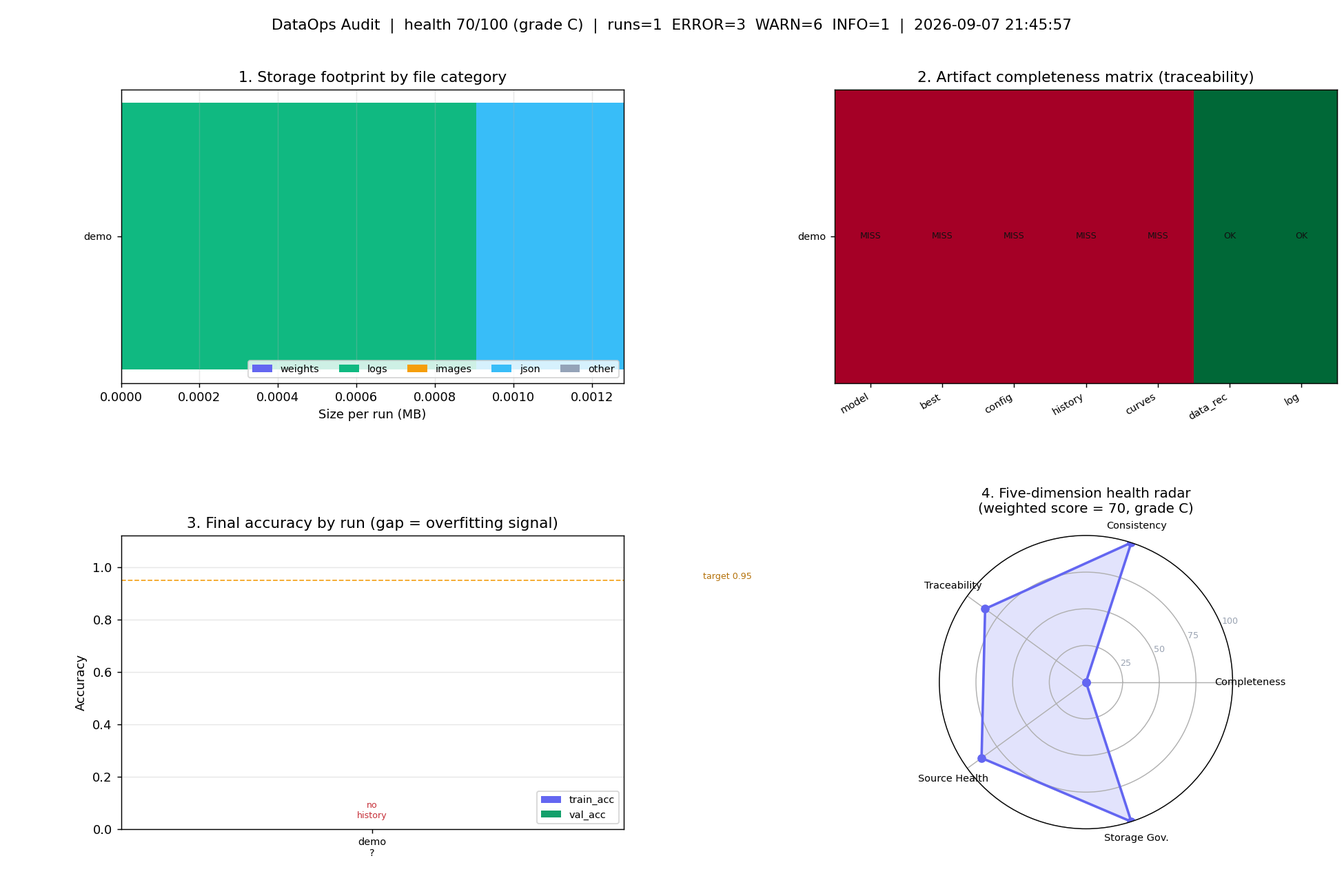
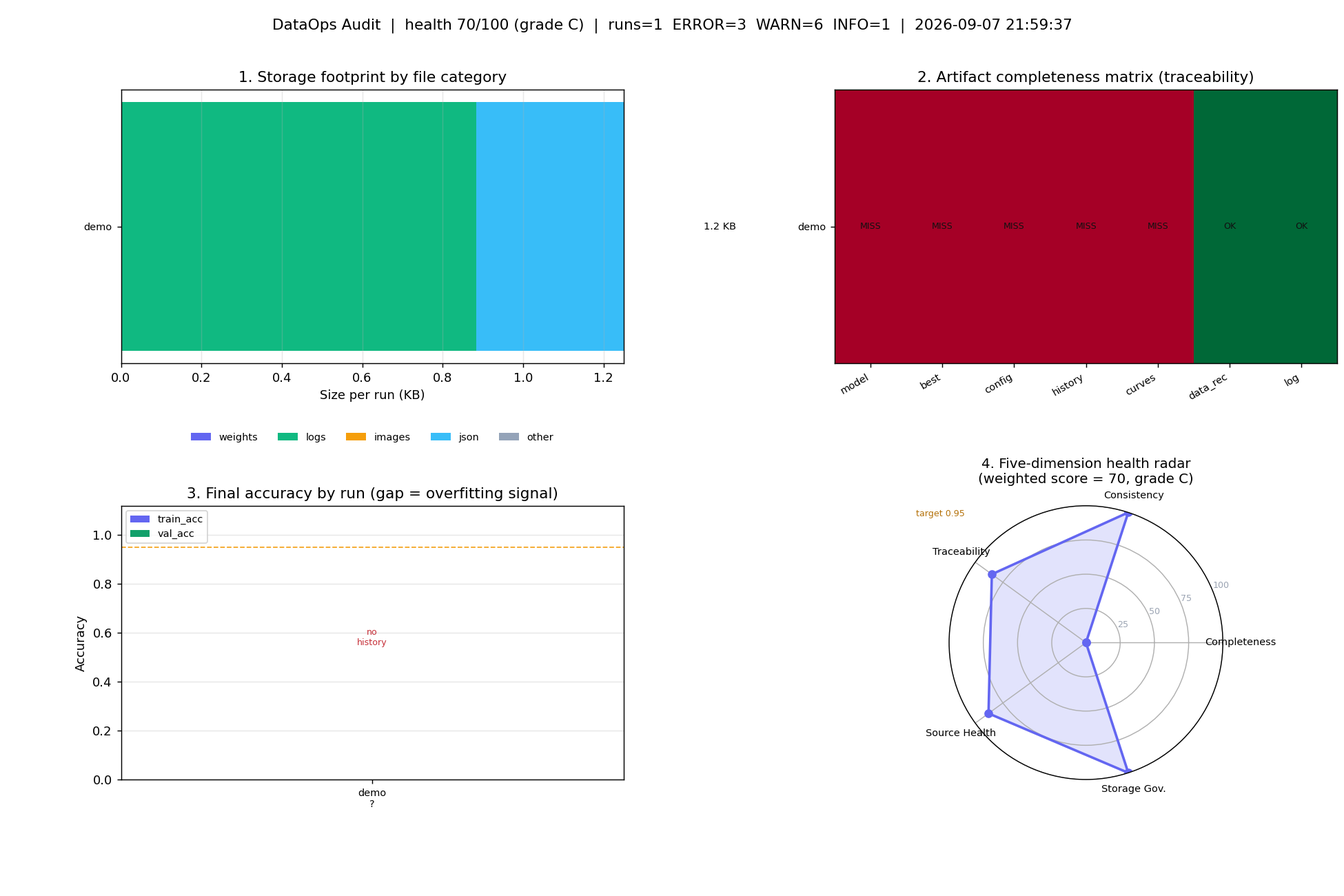
巡检报告增强 + 看板布局微调 + 清理残缺 run + 同步巡检成果
- data_ops.py：存储占用表里为 data 行补注「实际统计自 ~/.cache/paddle/…，原因见告警 S10」，
  避免台账目录（./data）与磁盘真实命中目录不一致时读者被误导；另修掉自提图区块缺少的空行
- visualize.py：PNG 看板布局微调（legend 移到 upper left、no-history 标注改居中高度、
  subplots_adjust 增大 bottom 留白），已用新巡检验证生效于 dashboard.png
- 删除 logs/speed_mlp/：那次训练只留下日志与数据留档、无任何模型产物，属中断残留，
  保留会长期触发 C1 告警干扰基线判断
- outputs/ops/：同步 21:56 / 21:58 / 21:59 三次巡检生成的 json / md / dashboard.png /
  dashboard.html 与留痕日志（报告增强与布局微调后的成果）

diff --git a/outputs/ops/dashboard.html b/outputs/ops/dashboard.html
@@ -1,3 +1,3 @@
 <!doctype html><html lang="zh"><head><meta charset="utf-8"><meta name="viewport" content="width=device-width,initial-scale=1"><title>手写识别项目 · 数据运维看板</title><style>
 *{box-sizing:border-box}body{margin:0;padding:24px;background:#f5f7fa;font-family:-apple-system,"PingFang SC","Microsoft YaHei",Helvetica,Arial,sans-serif;color:#1a1d24}h1{font-size:20px;margin:0 0 4px}h2{font-size:15px;margin:24px 0 10px;color:#2c3140;border-left:4px solid #6366f1;padding-left:9px}.sub{color:#68707f;font-size:12px;margin-bottom:18px}.wrap{max-width:1120px;margin:0 auto}.card{background:#fff;border:1px solid #e6eaf0;border-radius:12px;padding:16px 18px;margin-bottom:14px;box-shadow:0 1px 2px rgba(16,24,40,.04)}.grid{display:grid;grid-template-columns:repeat(auto-fit,minmax(330px,1fr));gap:14px}.kpis{display:grid;grid-template-columns:repeat(auto-fit,minmax(112px,1fr));gap:10px;margin-top:10px}.kpi{background:#f8fafc;border:1px solid #e6eaf0;border-radius:10px;padding:9px 11px}.kpi b{display:block;font-size:20px;margin-top:2px}.kpi span{font-size:11px;color:#68707f}.chip{display:inline-block;padding:2px 9px;border-radius:999px;font-size:11px;font-weight:600;color:#fff}table{width:100%;border-collapse:collapse;font-size:12px}th,td{padding:7px 8px;border-bottom:1px solid #eef1f5;text-align:left;vertical-align:middle}th{background:#f8fafc;color:#4b5568;font-weight:600;white-space:nowrap}td.num{text-align:right;font-variant-numeric:tabular-nums}code{background:#f2f4f8;padding:1px 5px;border-radius:4px;font-size:11px;word-break:break-all}.muted{color:#9aa3b2}.ok{color:#12805c}.bad{color:#c62f38}.warned{color:#b47109}.cell-ok{background:#e7f6ef}.cell-bad{background:#fdeceb}.dimrow{display:flex;align-items:center;gap:10px;margin:7px 0;font-size:12px}.dimrow span{width:80px;color:#4b5568}.dimrow b{width:34px;text-align:right}.track{flex:1;height:9px;background:#eef1f5;border-radius:6px;overflow:hidden}.fill{height:100%;border-radius:6px}footer{color:#8d95a3;font-size:11px;text-align:center;margin:18px 0}
-</style></head><body><div class="wrap"><h1>数据运维巡检看板 · DataOps Audit</h1><div class="sub">生成于 2026-09-07 21:45:57 ｜ 巡检范围 <code>/Volumes/LCA_SSD/课程/大数据综合实训/handwriting_recognition/logs</code> · <code>/Volumes/LCA_SSD/课程/大数据综合实训/handwriting_recognition/data</code> · <code>/Volumes/LCA_SSD/课程/大数据综合实训/handwriting_recognition/outputs</code>｜ run 范围：(全部 run) ｜ 保留期 14 天</div><div class="grid"><div class="card" style="text-align:center"><h2 style="margin-top:0">健康度总分</h2><svg viewBox="0 0 200 122" width="200" height="122"><path d="M 30 100 A 70 70 0 0 1 170 100" fill="none" stroke="#e9edf3" stroke-width="15" stroke-linecap="round"/><path d="M 30 100 A 70 70 0 0 1 170 100" fill="none" stroke="#f5a623" stroke-width="15" stroke-linecap="round" stroke-dasharray="154.4 219.9"/><text x="100" y="93" text-anchor="middle" font-size="34" font-weight="700" fill="#1a1d24">70</text><text x="100" y="114" text-anchor="middle" font-size="11" fill="#68707f">HEALTH SCORE / 100</text></svg><div style="margin:8px 0 2px">及格：有明显缺项，交付前需整改</div><div><span class="chip" style="background:#e5484d">ERROR 3</span> <span class="chip" style="background:#f5a623">WARN 6</span> <span class="chip" style="background:#3b82f6">INFO 1</span></div><div class="kpis"><div class="kpi"><span>健康度等级</span><b style="color:#f5a623">C</b></div><div class="kpi"><span>巡检 run 数</span><b>1</b></div><div class="kpi"><span>run 产物占用</span><b>1.2 KB</b></div><div class="kpi"><span>全项目产物</span><b>11.2 MB</b></div><div class="kpi"><span>数据集占用</span><b>11.1 MB</b></div><div class="kpi"><span>数据文件校验</span><b>4/4</b></div><div class="kpi"><span>最优 run</span><b style="font-size:13px">-</b></div></div></div><div class="card"><h2 style="margin-top:0">五维健康度（扣分制 ERROR-35 / WARN-12 / INFO-3）</h2><div class="dimrow"><span>资产完整性</span><div class="track"><div class="fill" style="width:0%;background:#e5484d"></div></div><b>0</b><span class="muted" style="width:34px">25%</span></div><div class="dimrow"><span>一致性校验</span><div class="track"><div class="fill" style="width:100%;background:#12a06b"></div></div><b>100</b><span class="muted" style="width:34px">25%</span></div><div class="dimrow"><span>可追溯性</span><div class="track"><div class="fill" style="width:85%;background:#3b82f6"></div></div><b>85</b><span class="muted" style="width:34px">20%</span></div><div class="dimrow"><span>数据源健康</span><div class="track"><div class="fill" style="width:88%;background:#3b82f6"></div></div><b>88</b><span class="muted" style="width:34px">15%</span></div><div class="dimrow"><span>存储治理</span><div class="track"><div class="fill" style="width:100%;background:#12a06b"></div></div><b>100</b><span class="muted" style="width:34px">15%</span></div><div class="muted" style="margin-top:10px;font-size:11px">磁盘/数据/日志均为只读扫描，本看板不会修改或删除任何产物。</div><h2>存储占用构成（按 run 堆叠）</h2><svg viewBox="0 0 520 70" width="100%" height="70"><text x="124" y="23" text-anchor="end" font-size="11" fill="#333">demo</text><rect x="132.0" y="6" width="220.3" height="22" rx="3" fill="#10b981"><title>logs: 904 B</title></rect><rect x="352.4" y="6" width="91.7" height="22" rx="3" fill="#38bdf8"><title>json: 376 B</title></rect><text x="450.0" y="23" font-size="11" fill="#666">1.2 KB</text><rect x="132" y="50" width="11" height="11" rx="2" fill="#6366f1"/><text x="147" y="59" font-size="10" fill="#666">weights</text><rect x="228" y="50" width="11" height="11" rx="2" fill="#10b981"/><text x="243" y="59" font-size="10" fill="#666">logs</text><rect x="324" y="50" width="11" height="11" rx="2" fill="#f59e0b"/><text x="339" y="59" font-size="10" fill="#666">images</text><rect x="420" y="50" width="11" height="11" rx="2" fill="#38bdf8"/><text x="435" y="59" font-size="10" fill="#666">json</text><rect x="516" y="50" width="11" height="11" rx="2" fill="#94a3b8"/><text x="531" y="59" font-size="10" fill="#666">other</text></svg><h2>分区域存储账</h2><div class="dimrow"><span style="width:170px">原始数据集 data/</span><div class="track"><div class="fill" style="width:100.0%;background:#6366f1"></div></div><b style="width:64px">11.1 MB</b></div><div class="dimrow"><span style="width:170px">巡检报告 outputs/ops/</span><div class="track"><div class="fill" style="width:1.6%;background:#93a0f5"></div></div><b style="width:64px">179.7 KB</b></div><div class="dimrow"><span style="width:170px">训练产物 logs/</span><div class="track"><div class="fill" style="width:0.0%;background:#93a0f5"></div></div><b style="width:64px">1.2 KB</b></div><div class="dimrow"><span style="width:170px">自提原图 inputs/</span><div class="track"><div class="fill" style="width:0.0%;background:#93a0f5"></div></div><b style="width:64px">286 B</b></div><div class="dimrow"><span style="width:170px">示例输出 outputs/examples/</span><div class="track"><div class="fill" style="width:0.0%;background:#93a0f5"></div></div><b style="width:64px">0 B</b></div><div class="dimrow"><span style="width:170px">自提图结果 outputs/custom/</span><div class="track"><div class="fill" style="width:0.0%;background:#93a0f5"></div></div><b style="width:64px">0 B</b></div></div><div class="card"><h2 style="margin-top:0">训练指标对比（运维视角）</h2><p class="muted">没有可用的 history.json，指标图空。</p><div class="muted" style="font-size:11px;margin-top:6px">两柱高度差即泛化间隙；差 &gt; 0.05 记过拟合告警。</div><h2>数据源体检</h2><div class="muted" style="font-size:11px;margin-bottom:6px">实际命中目录：<code>/Users/leechiann/.cache/paddle/dataset/mnist</code></div><table><tr><th>文件</th><th>拆分</th><th>体积</th><th>样本数</th><th>解压字节</th><th>md5(前16)</th><th>状态</th></tr><tr><td><code>train-images-idx3-ubyte.gz</code></td><td>train</td><td class="num">9.5 MB</td><td class="num">60000</td><td class="num">47040000</td><td><code>f68b3c2dcbeaaa9f</code></td><td><span class="ok">正常</span></td></tr><tr><td><code>train-labels-idx1-ubyte.gz</code></td><td>train</td><td class="num">28.2 KB</td><td class="num">60000</td><td class="num">60000</td><td><code>d53e105ee54ea407</code></td><td><span class="ok">正常</span></td></tr><tr><td><code>t10k-images-idx3-ubyte.gz</code></td><td>test</td><td class="num">1.6 MB</td><td class="num">10000</td><td class="num">7840000</td><td><code>9fb629c4189551a2</code></td><td><span class="ok">正常</span></td></tr><tr><td><code>t10k-labels-idx1-ubyte.gz</code></td><td>test</td><td class="num">4.4 KB</td><td class="num">10000</td><td class="num">10000</td><td><code>ec29112dd5afa061</code></td><td><span class="ok">正常</span></td></tr></table><div class="muted" style="font-size:11px;margin-top:6px">指纹基线：<code>/Volumes/LCA_SSD/课程/大数据综合实训/handwriting_recognition/outputs/ops/data_fingerprint.json</code></div></div></div><div class="card"><h2 style="margin-top:0">资产台账（run × 产物）</h2><table><tr><th>run</th><th>日志</th><th>最终模型权重</th><th>最佳模型权重</th><th>参数快照</th><th>训练过程数据</th><th>训练曲线图</th><th>数据集留档</th><th>体积</th><th>最后更新</th></tr><tr><td><code>demo</code></td><td class="cell-ok ok">✓ 有</td><td class="cell-bad bad">✗ 缺</td><td class="cell-bad bad">✗ 缺</td><td class="cell-bad bad">✗ 缺</td><td class="cell-bad bad">✗ 缺</td><td class="cell-bad bad">✗ 缺</td><td class="cell-ok ok">✓ 有</td><td class="num">1.2 KB</td><td class="muted">2026-09-07 21:42:14（0.0天前）</td></tr></table></div><div class="card"><h2 style="margin-top:0">训练指标明细</h2><table><tr><th>run</th><th>结构</th><th>轮数</th><th>train_acc</th><th>val_acc</th><th>泛化间隙</th><th>val_acc 走势</th><th>运维判定</th></tr><tr><td><code>demo</code></td><td colspan="6" class="bad">无 history.json，训练指标不可追溯</td><td class="bad">不可提交</td></tr></table><div class="sub" style="margin-top:10px">推理成果：<span class="bad">尚无 inference_results.json</span></div></div><div class="card"><h2 style="margin-top:0">用户自提输入区 · 新数据接入体检</h2><div class="sub" style="margin-bottom:8px">输入目录 <code>/Volumes/LCA_SSD/课程/大数据综合实训/handwriting_recognition/inputs</code>（存在）｜现有 PNG 3 张｜因格式被排除 0 个｜成果 <code>custom_results.json</code>（尚未生成）</div><table><tr><th>输入图</th><th class="num">体积</th><th>最后修改</th><th>送模结果</th></tr><tr><td><code>3.png</code></td><td class="num">100 B</td><td class="muted">2026-09-07 21:43:11</td><td><span class="muted">未跑推理</span></td></tr><tr><td><code>7.png</code></td><td class="num">86 B</td><td class="muted">2026-09-07 21:43:11</td><td><span class="muted">未跑推理</span></td></tr><tr><td><code>9.png</code></td><td class="num">100 B</td><td class="muted">2026-09-07 21:43:11</td><td><span class="muted">未跑推理</span></td></tr></table></div><div class="card"><h2 style="margin-top:0">告警清单（10 项）</h2><table><tr><th>级别</th><th>编号</th><th>维度</th><th>对象</th><th>问题</th><th>建议动作</th></tr><tr><td><span class="chip" style="background:#e5484d">ERROR</span></td><td><code>C1</code></td><td>资产完整性</td><td><code>demo/model.pdparams</code></td><td>缺少最终模型权重（model.pdparams）</td><td class="muted">重跑该 run 的训练；若是中断所致请勿复用半成品 run 目录</td></tr><tr><td><span class="chip" style="background:#e5484d">ERROR</span></td><td><code>C1</code></td><td>资产完整性</td><td><code>demo/best_model.pdparams</code></td><td>缺少最佳模型权重（best_model.pdparams）</td><td class="muted">重跑该 run 的训练；若是中断所致请勿复用半成品 run 目录</td></tr><tr><td><span class="chip" style="background:#e5484d">ERROR</span></td><td><code>C1</code></td><td>资产完整性</td><td><code>demo/config.json</code></td><td>缺少参数快照（config.json）</td><td class="muted">重跑该 run 的训练；若是中断所致请勿复用半成品 run 目录</td></tr><tr><td><span class="chip" style="background:#f5a623">WARN</span></td><td><code>C1</code></td><td>资产完整性</td><td><code>demo/history.json</code></td><td>缺少训练过程数据（history.json）</td><td class="muted">重跑该 run 的训练；若是中断所致请勿复用半成品 run 目录</td></tr><tr><td><span class="chip" style="background:#f5a623">WARN</span></td><td><code>C1</code></td><td>资产完整性</td><td><code>demo/curves.png</code></td><td>缺少训练曲线图（curves.png）</td><td class="muted">重跑该 run 的训练；若是中断所致请勿复用半成品 run 目录</td></tr><tr><td><span class="chip" style="background:#f5a623">WARN</span></td><td><code>C3</code></td><td>资产完整性</td><td><code>/Volumes/LCA_SSD/课程/大数据综合实训/handwriting_recognition/outputs/examples/inference_results.json</code></td><td>尚无推理成果 inference_results.json</td><td class="muted">运行：python main.py --mode inference --run_name &lt;run名&gt;</td></tr><tr><td><span class="chip" style="background:#f5a623">WARN</span></td><td><code>U5</code></td><td>资产完整性</td><td><code>/Volumes/LCA_SSD/课程/大数据综合实训/handwriting_recognition/outputs/custom/custom_results.json</code></td><td>已有 3 张输入图但没有 custom_results.json</td><td class="muted">运行：python main.py --mode custom --run_name &lt;run名&gt;</td></tr><tr><td><span class="chip" style="background:#f5a623">WARN</span></td><td><code>S10</code></td><td>数据源健康</td><td><code>/Users/leechiann/.cache/paddle/dataset/mnist</code></td><td>实际数据目录为 /Users/leechiann/.cache/paddle/dataset/mnist，与 config.data_dir=./data 不一致（说明当时触发了退回 Paddle 默认缓存的降级分支）</td><td class="muted">在报告中注明降级；如需固定路径请补齐 config.data_dir 下的文件</td></tr><tr><td><span class="chip" style="background:#f5a623">WARN</span></td><td><code>N13</code></td><td>可追溯性</td><td><code>demo/dataset_record.json</code></td><td>留档声明数据目录 ./data，实际命中 /Users/leechiann/.cache/paddle/dataset/mnist</td><td class="muted">留档与事实不符，追溯时以实际为准</td></tr><tr><td><span class="chip" style="background:#3b82f6">INFO</span></td><td><code>T3</code></td><td>可追溯性</td><td><code>demo</code></td><td>无 best_model.pdparams，inference 模式将回退用末轮权重</td><td class="muted">推理结果可能与训练报告里的 val_acc 不一致</td></tr></table></div><div class="card"><h2 style="margin-top:0">整改优先级（先看这 8 条）</h2><ol><li><b>ERROR C1</b>：缺少最终模型权重（model.pdparams）<br><span class="muted">→ </span><code>重跑该 run 的训练；若是中断所致请勿复用半成品 run 目录</code></li><li><b>ERROR C1</b>：缺少最佳模型权重（best_model.pdparams）<br><span class="muted">→ </span><code>重跑该 run 的训练；若是中断所致请勿复用半成品 run 目录</code></li><li><b>ERROR C1</b>：缺少参数快照（config.json）<br><span class="muted">→ </span><code>重跑该 run 的训练；若是中断所致请勿复用半成品 run 目录</code></li><li><b>WARN C1</b>：缺少训练过程数据（history.json）<br><span class="muted">→ </span><code>重跑该 run 的训练；若是中断所致请勿复用半成品 run 目录</code></li><li><b>WARN C1</b>：缺少训练曲线图（curves.png）<br><span class="muted">→ </span><code>重跑该 run 的训练；若是中断所致请勿复用半成品 run 目录</code></li><li><b>WARN C3</b>：尚无推理成果 inference_results.json<br><span class="muted">→ </span><code>运行：python main.py --mode inference --run_name &lt;run名&gt;</code></li><li><b>WARN U5</b>：已有 3 张输入图但没有 custom_results.json<br><span class="muted">→ </span><code>运行：python main.py --mode custom --run_name &lt;run名&gt;</code></li><li><b>WARN S10</b>：实际数据目录为 /Users/leechiann/.cache/paddle/dataset/mnist，与 config.data_dir=./data 不一致（说明当时触发了退回 Paddle 默认缓存的降级分支）<br><span class="muted">→ </span><code>在报告中注明降级；如需固定路径请补齐 config.data_dir 下的文件</code></li></ol></div><footer>由 data_ops.py 自动生成 · 只读巡检 · 配套课程《大数据综合实训 · 深度学习实训》</footer></div></body></html>
+</style></head><body><div class="wrap"><h1>数据运维巡检看板 · DataOps Audit</h1><div class="sub">生成于 2026-09-07 21:59:37 ｜ 巡检范围 <code>/Volumes/LCA_SSD/课程/大数据综合实训/handwriting_recognition/logs</code> · <code>/Volumes/LCA_SSD/课程/大数据综合实训/handwriting_recognition/data</code> · <code>/Volumes/LCA_SSD/课程/大数据综合实训/handwriting_recognition/outputs</code>｜ run 范围：全部 run（logs/ 下所有子目录） ｜ 保留期 14 天</div><div class="grid"><div class="card" style="text-align:center"><h2 style="margin-top:0">健康度总分</h2><svg viewBox="0 0 200 122" width="200" height="122"><path d="M 30 100 A 70 70 0 0 1 170 100" fill="none" stroke="#e9edf3" stroke-width="15" stroke-linecap="round"/><path d="M 30 100 A 70 70 0 0 1 170 100" fill="none" stroke="#f5a623" stroke-width="15" stroke-linecap="round" stroke-dasharray="154.4 219.9"/><text x="100" y="93" text-anchor="middle" font-size="34" font-weight="700" fill="#1a1d24">70</text><text x="100" y="114" text-anchor="middle" font-size="11" fill="#68707f">HEALTH SCORE / 100</text></svg><div style="margin:8px 0 2px">及格：有明显缺项，交付前需整改</div><div><span class="chip" style="background:#e5484d">ERROR 3</span> <span class="chip" style="background:#f5a623">WARN 6</span> <span class="chip" style="background:#3b82f6">INFO 1</span></div><div class="kpis"><div class="kpi"><span>健康度等级</span><b style="color:#f5a623">C</b></div><div class="kpi"><span>巡检 run 数</span><b>1</b></div><div class="kpi"><span>run 产物占用</span><b>1.2 KB</b></div><div class="kpi"><span>全项目产物</span><b>11.2 MB</b></div><div class="kpi"><span>数据集占用</span><b>11.1 MB</b></div><div class="kpi"><span>数据文件校验</span><b>4/4</b></div><div class="kpi"><span>最优 run</span><b style="font-size:13px">-</b></div></div></div><div class="card"><h2 style="margin-top:0">五维健康度（扣分制 ERROR-35 / WARN-12 / INFO-3）</h2><div class="dimrow"><span>资产完整性</span><div class="track"><div class="fill" style="width:0%;background:#e5484d"></div></div><b>0</b><span class="muted" style="width:34px">25%</span></div><div class="dimrow"><span>一致性校验</span><div class="track"><div class="fill" style="width:100%;background:#12a06b"></div></div><b>100</b><span class="muted" style="width:34px">25%</span></div><div class="dimrow"><span>可追溯性</span><div class="track"><div class="fill" style="width:85%;background:#3b82f6"></div></div><b>85</b><span class="muted" style="width:34px">20%</span></div><div class="dimrow"><span>数据源健康</span><div class="track"><div class="fill" style="width:88%;background:#3b82f6"></div></div><b>88</b><span class="muted" style="width:34px">15%</span></div><div class="dimrow"><span>存储治理</span><div class="track"><div class="fill" style="width:100%;background:#12a06b"></div></div><b>100</b><span class="muted" style="width:34px">15%</span></div><div class="muted" style="margin-top:10px;font-size:11px">磁盘/数据/日志均为只读扫描，本看板不会修改或删除任何产物。</div><h2>存储占用构成（按 run 堆叠）</h2><svg viewBox="0 0 520 70" width="100%" height="70"><text x="124" y="23" text-anchor="end" font-size="11" fill="#333">demo</text><rect x="132.0" y="6" width="220.3" height="22" rx="3" fill="#10b981"><title>logs: 904 B</title></rect><rect x="352.4" y="6" width="91.7" height="22" rx="3" fill="#38bdf8"><title>json: 376 B</title></rect><text x="450.0" y="23" font-size="11" fill="#666">1.2 KB</text><rect x="132" y="50" width="11" height="11" rx="2" fill="#6366f1"/><text x="147" y="59" font-size="10" fill="#666">weights</text><rect x="228" y="50" width="11" height="11" rx="2" fill="#10b981"/><text x="243" y="59" font-size="10" fill="#666">logs</text><rect x="324" y="50" width="11" height="11" rx="2" fill="#f59e0b"/><text x="339" y="59" font-size="10" fill="#666">images</text><rect x="420" y="50" width="11" height="11" rx="2" fill="#38bdf8"/><text x="435" y="59" font-size="10" fill="#666">json</text><rect x="516" y="50" width="11" height="11" rx="2" fill="#94a3b8"/><text x="531" y="59" font-size="10" fill="#666">other</text></svg><h2>分区域存储账</h2><div class="dimrow"><span style="width:170px">原始数据集 data/</span><div class="track"><div class="fill" style="width:100.0%;background:#6366f1"></div></div><b style="width:64px">11.1 MB</b></div><div class="dimrow"><span style="width:170px">巡检报告 outputs/ops/</span><div class="track"><div class="fill" style="width:1.6%;background:#93a0f5"></div></div><b style="width:64px">179.7 KB</b></div><div class="dimrow"><span style="width:170px">训练产物 logs/</span><div class="track"><div class="fill" style="width:0.0%;background:#93a0f5"></div></div><b style="width:64px">1.2 KB</b></div><div class="dimrow"><span style="width:170px">自提原图 inputs/</span><div class="track"><div class="fill" style="width:0.0%;background:#93a0f5"></div></div><b style="width:64px">286 B</b></div><div class="dimrow"><span style="width:170px">示例输出 outputs/examples/</span><div class="track"><div class="fill" style="width:0.0%;background:#93a0f5"></div></div><b style="width:64px">0 B</b></div><div class="dimrow"><span style="width:170px">自提图结果 outputs/custom/</span><div class="track"><div class="fill" style="width:0.0%;background:#93a0f5"></div></div><b style="width:64px">0 B</b></div></div><div class="card"><h2 style="margin-top:0">训练指标对比（运维视角）</h2><p class="muted">没有可用的 history.json，指标图空。</p><div class="muted" style="font-size:11px;margin-top:6px">两柱高度差即泛化间隙；差 &gt; 0.05 记过拟合告警。</div><h2>数据源体检</h2><div class="muted" style="font-size:11px;margin-bottom:6px">实际命中目录：<code>/Users/leechiann/.cache/paddle/dataset/mnist</code></div><table><tr><th>文件</th><th>拆分</th><th>体积</th><th>样本数</th><th>解压字节</th><th>md5(前16)</th><th>状态</th></tr><tr><td><code>train-images-idx3-ubyte.gz</code></td><td>train</td><td class="num">9.5 MB</td><td class="num">60000</td><td class="num">47040000</td><td><code>f68b3c2dcbeaaa9f</code></td><td><span class="ok">正常</span></td></tr><tr><td><code>train-labels-idx1-ubyte.gz</code></td><td>train</td><td class="num">28.2 KB</td><td class="num">60000</td><td class="num">60000</td><td><code>d53e105ee54ea407</code></td><td><span class="ok">正常</span></td></tr><tr><td><code>t10k-images-idx3-ubyte.gz</code></td><td>test</td><td class="num">1.6 MB</td><td class="num">10000</td><td class="num">7840000</td><td><code>9fb629c4189551a2</code></td><td><span class="ok">正常</span></td></tr><tr><td><code>t10k-labels-idx1-ubyte.gz</code></td><td>test</td><td class="num">4.4 KB</td><td class="num">10000</td><td class="num">10000</td><td><code>ec29112dd5afa061</code></td><td><span class="ok">正常</span></td></tr></table><div class="muted" style="font-size:11px;margin-top:6px">指纹基线：<code>/Volumes/LCA_SSD/课程/大数据综合实训/handwriting_recognition/outputs/ops/data_fingerprint.json</code></div></div></div><div class="card"><h2 style="margin-top:0">资产台账（run × 产物）</h2><table><tr><th>run</th><th>日志</th><th>最终模型权重</th><th>最佳模型权重</th><th>参数快照</th><th>训练过程数据</th><th>训练曲线图</th><th>数据集留档</th><th>体积</th><th>最后更新</th></tr><tr><td><code>demo</code></td><td class="cell-ok ok">✓ 有</td><td class="cell-bad bad">✗ 缺</td><td class="cell-bad bad">✗ 缺</td><td class="cell-bad bad">✗ 缺</td><td class="cell-bad bad">✗ 缺</td><td class="cell-bad bad">✗ 缺</td><td class="cell-ok ok">✓ 有</td><td class="num">1.2 KB</td><td class="muted">2026-09-07 21:42:14（0.0天前）</td></tr></table></div><div class="card"><h2 style="margin-top:0">训练指标明细</h2><table><tr><th>run</th><th>结构</th><th>轮数</th><th>train_acc</th><th>val_acc</th><th>泛化间隙</th><th>val_acc 走势</th><th>运维判定</th></tr><tr><td><code>demo</code></td><td colspan="6" class="bad">无 history.json，训练指标不可追溯</td><td class="bad">不可提交</td></tr></table><div class="sub" style="margin-top:10px">推理成果：<span class="bad">尚无 inference_results.json</span></div></div><div class="card"><h2 style="margin-top:0">用户自提输入区 · 新数据接入体检</h2><div class="sub" style="margin-bottom:8px">输入目录 <code>/Volumes/LCA_SSD/课程/大数据综合实训/handwriting_recognition/inputs</code>（存在）｜现有 PNG 3 张｜因格式被排除 0 个｜成果 <code>custom_results.json</code>（尚未生成）</div><table><tr><th>输入图</th><th class="num">体积</th><th>最后修改</th><th>送模结果</th></tr><tr><td><code>3.png</code></td><td class="num">100 B</td><td class="muted">2026-09-07 21:43:11</td><td><span class="muted">未跑推理</span></td></tr><tr><td><code>7.png</code></td><td class="num">86 B</td><td class="muted">2026-09-07 21:43:11</td><td><span class="muted">未跑推理</span></td></tr><tr><td><code>9.png</code></td><td class="num">100 B</td><td class="muted">2026-09-07 21:43:11</td><td><span class="muted">未跑推理</span></td></tr></table></div><div class="card"><h2 style="margin-top:0">告警清单（10 项）</h2><table><tr><th>级别</th><th>编号</th><th>维度</th><th>对象</th><th>问题</th><th>建议动作</th></tr><tr><td><span class="chip" style="background:#e5484d">ERROR</span></td><td><code>C1</code></td><td>资产完整性</td><td><code>demo/model.pdparams</code></td><td>缺少最终模型权重（model.pdparams）</td><td class="muted">重跑该 run 的训练；若是中断所致请勿复用半成品 run 目录</td></tr><tr><td><span class="chip" style="background:#e5484d">ERROR</span></td><td><code>C1</code></td><td>资产完整性</td><td><code>demo/best_model.pdparams</code></td><td>缺少最佳模型权重（best_model.pdparams）</td><td class="muted">重跑该 run 的训练；若是中断所致请勿复用半成品 run 目录</td></tr><tr><td><span class="chip" style="background:#e5484d">ERROR</span></td><td><code>C1</code></td><td>资产完整性</td><td><code>demo/config.json</code></td><td>缺少参数快照（config.json）</td><td class="muted">重跑该 run 的训练；若是中断所致请勿复用半成品 run 目录</td></tr><tr><td><span class="chip" style="background:#f5a623">WARN</span></td><td><code>C1</code></td><td>资产完整性</td><td><code>demo/history.json</code></td><td>缺少训练过程数据（history.json）</td><td class="muted">重跑该 run 的训练；若是中断所致请勿复用半成品 run 目录</td></tr><tr><td><span class="chip" style="background:#f5a623">WARN</span></td><td><code>C1</code></td><td>资产完整性</td><td><code>demo/curves.png</code></td><td>缺少训练曲线图（curves.png）</td><td class="muted">重跑该 run 的训练；若是中断所致请勿复用半成品 run 目录</td></tr><tr><td><span class="chip" style="background:#f5a623">WARN</span></td><td><code>C3</code></td><td>资产完整性</td><td><code>/Volumes/LCA_SSD/课程/大数据综合实训/handwriting_recognition/outputs/examples/inference_results.json</code></td><td>尚无推理成果 inference_results.json</td><td class="muted">运行：python main.py --mode inference --run_name &lt;run名&gt;</td></tr><tr><td><span class="chip" style="background:#f5a623">WARN</span></td><td><code>U5</code></td><td>资产完整性</td><td><code>/Volumes/LCA_SSD/课程/大数据综合实训/handwriting_recognition/outputs/custom/custom_results.json</code></td><td>已有 3 张输入图但没有 custom_results.json</td><td class="muted">运行：python main.py --mode custom --run_name &lt;run名&gt;</td></tr><tr><td><span class="chip" style="background:#f5a623">WARN</span></td><td><code>S10</code></td><td>数据源健康</td><td><code>/Users/leechiann/.cache/paddle/dataset/mnist</code></td><td>实际数据目录为 /Users/leechiann/.cache/paddle/dataset/mnist，与 config.data_dir=./data 不一致（说明当时触发了退回 Paddle 默认缓存的降级分支）</td><td class="muted">在报告中注明降级；如需固定路径请补齐 config.data_dir 下的文件</td></tr><tr><td><span class="chip" style="background:#f5a623">WARN</span></td><td><code>N13</code></td><td>可追溯性</td><td><code>demo/dataset_record.json</code></td><td>留档声明数据目录 ./data，实际命中 /Users/leechiann/.cache/paddle/dataset/mnist</td><td class="muted">留档与事实不符，追溯时以实际为准</td></tr><tr><td><span class="chip" style="background:#3b82f6">INFO</span></td><td><code>T3</code></td><td>可追溯性</td><td><code>demo</code></td><td>无 best_model.pdparams，inference 模式将回退用末轮权重</td><td class="muted">推理结果可能与训练报告里的 val_acc 不一致</td></tr></table></div><div class="card"><h2 style="margin-top:0">整改优先级（先看这 8 条）</h2><ol><li><b>ERROR C1</b>：缺少最终模型权重（model.pdparams）<br><span class="muted">→ </span><code>重跑该 run 的训练；若是中断所致请勿复用半成品 run 目录</code></li><li><b>ERROR C1</b>：缺少最佳模型权重（best_model.pdparams）<br><span class="muted">→ </span><code>重跑该 run 的训练；若是中断所致请勿复用半成品 run 目录</code></li><li><b>ERROR C1</b>：缺少参数快照（config.json）<br><span class="muted">→ </span><code>重跑该 run 的训练；若是中断所致请勿复用半成品 run 目录</code></li><li><b>WARN C1</b>：缺少训练过程数据（history.json）<br><span class="muted">→ </span><code>重跑该 run 的训练；若是中断所致请勿复用半成品 run 目录</code></li><li><b>WARN C1</b>：缺少训练曲线图（curves.png）<br><span class="muted">→ </span><code>重跑该 run 的训练；若是中断所致请勿复用半成品 run 目录</code></li><li><b>WARN C3</b>：尚无推理成果 inference_results.json<br><span class="muted">→ </span><code>运行：python main.py --mode inference --run_name &lt;run名&gt;</code></li><li><b>WARN U5</b>：已有 3 张输入图但没有 custom_results.json<br><span class="muted">→ </span><code>运行：python main.py --mode custom --run_name &lt;run名&gt;</code></li><li><b>WARN S10</b>：实际数据目录为 /Users/leechiann/.cache/paddle/dataset/mnist，与 config.data_dir=./data 不一致（说明当时触发了退回 Paddle 默认缓存的降级分支）<br><span class="muted">→ </span><code>在报告中注明降级；如需固定路径请补齐 config.data_dir 下的文件</code></li></ol></div><footer>由 data_ops.py 自动生成 · 只读巡检 · 配套课程《大数据综合实训 · 深度学习实训》</footer></div></body></html>

diff --git a/visualize.py b/visualize.py
@@ -184,7 +184,8 @@ def plot_ops_dashboard(report, save_path):
         ax1.set_yticklabels(names, fontsize=8)
         ax1.set_xlabel("Size per run (%s)" % unit)
         ax1.set_title("1. Storage footprint by file category")
-        ax1.legend(fontsize=8, ncol=5, loc="lower right")
+        ax1.legend(fontsize=8, ncol=5, frameon=False, loc="upper center",
+                   bbox_to_anchor=(0.5, -0.22))
         ax1.grid(True, axis="x", alpha=0.3)
 
         # ---------- ② 资产完整性矩阵
@@ -210,7 +211,7 @@ def plot_ops_dashboard(report, save_path):
         for i, r in enumerate(runs):
             f = r.get("final") or {}
             if not f:
-                ax3.text(i, 0.04, "no\nhistory", ha="center", fontsize=7, color="#c62f38")
+                ax3.text(i, 0.55, "no\nhistory", ha="center", fontsize=7, color="#c62f38")
                 continue
             ax3.annotate("gap %+.3f" % f["gap"], (i, max(f["train_acc"], f["val_acc"]) + 0.015),
                          ha="center", fontsize=7,
@@ -225,7 +226,7 @@ def plot_ops_dashboard(report, save_path):
         ax3.set_ylim(0, 1.12)
         ax3.set_ylabel("Accuracy")
         ax3.set_title("3. Final accuracy by run (gap = overfitting signal)")
-        ax3.legend(fontsize=8, loc="lower right")
+        ax3.legend(fontsize=8, loc="upper left")
         ax3.grid(True, axis="y", alpha=0.3)
 
         # ---------- ④ 五维健康度雷达
@@ -249,7 +250,7 @@ def plot_ops_dashboard(report, save_path):
                   % (report["score"], report["grade"]), fontsize=11, pad=18)
 
     # 极坐标子图与 tight_layout 不兼容（会报 Tight layout not applied），直接手动留白
-    fig.subplots_adjust(left=0.09, right=0.995, top=0.90, bottom=0.075, wspace=0.42, hspace=0.52)
+    fig.subplots_adjust(left=0.09, right=0.995, top=0.90, bottom=0.13, wspace=0.42, hspace=0.52)
     os.makedirs(os.path.dirname(save_path) or ".", exist_ok=True)
     fig.savefig(save_path, dpi=130)
     plt.close(fig)

diff --git a/data_ops.py b/data_ops.py
@@ -789,7 +789,12 @@ def write_markdown_report(rep, path):
                  "outputs_examples": "测试集示例输入图 + 识别拼图", "outputs_custom": "用户自提图的预处理结果",
                  "inputs": "用户自提原图（新数据入口）", "ops": "巡检自身报告与看板"}
     for name, val in sorted(rep["storage"]["areas"].items(), key=lambda kv: -kv[1]):
-        L.append(f"| `{name}` | {human_bytes(val)} | {area_desc.get(name, '')} |")
+        desc = area_desc.get(name, "")
+        real_root = rep["source"].get("root")
+        if name == "data" and real_root and \
+                os.path.abspath(real_root) != os.path.abspath(rep["meta"]["data_dir"]):
+            desc += f"（实际统计自 `{real_root}`，原因见告警 S10）"
+        L.append(f"| `{name}` | {human_bytes(val)} | {desc} |")
     L += [f"| **合计** | **{human_bytes(rep['storage']['total_bytes'])}** | |",
           "", "### 3.2 按文件类型", "", "| 类别 | 占用 |", "|---|---|"]
     cat_cn = {"weights": "模型权重(.pdparams)", "logs": "日志(.log)", "images": "图片(.png)",
@@ -830,7 +835,7 @@ def write_markdown_report(rep, path):
     L += ["", "## 6. 用户自提输入区（新数据接入体检）", "",
           f"- 输入目录：`{cust.get('image_dir')}`（{'存在' if cust.get('dir_exists') else '不存在'}），"
           f"现有 PNG {len(cust.get('pngs') or [])} 张，因格式被排除 {len(cust.get('wrong_ext') or [])} 个",
-          f"- 成果：`{cust.get('results_path')}`（{'已生成' if cust.get('exists') else '尚未生成'}）"]
+          f"- 成果：`{cust.get('results_path')}`（{'已生成' if cust.get('exists') else '尚未生成'}）", ""]
     if cust.get("exists"):
         L += [f"- 引用 run：`{cust.get('run_name')}`　模型结构：{cust.get('model_type')}　"
               f"生成于 {cust.get('generated_at')}",

diff --git a/outputs/ops/ops_report.md b/outputs/ops/ops_report.md
@@ -1,6 +1,6 @@
 # 数据运维巡检报告
 
-- 生成时间：2026-09-07 21:45:57
+- 生成时间：2026-09-07 21:59:37
 - 巡检范围：`/Volumes/LCA_SSD/课程/大数据综合实训/handwriting_recognition/logs` / `/Volumes/LCA_SSD/课程/大数据综合实训/handwriting_recognition/data` / `/Volumes/LCA_SSD/课程/大数据综合实训/handwriting_recognition/outputs`
 - **健康度：70.2 / 100　等级 C** —— 及格：有明显缺项，交付前需整改
 - run 数：1　告警：ERROR 3 / WARN 6 / INFO 1
@@ -28,7 +28,7 @@
 
 | 区域 | 占用 | 说明 |
 |---|---|---|
-| `data` | 11.1 MB | MNIST 原始数据集 |
+| `data` | 11.1 MB | MNIST 原始数据集（实际统计自 `/Users/leechiann/.cache/paddle/dataset/mnist`，原因见告警 S10） |
 | `ops` | 179.7 KB | 巡检自身报告与看板 |
 | `logs` | 1.2 KB | 训练产物（日志/权重/记录/曲线） |
 | `inputs` | 286 B | 用户自提原图（新数据入口） |
@@ -69,6 +69,7 @@
 
 - 输入目录：`/Volumes/LCA_SSD/课程/大数据综合实训/handwriting_recognition/inputs`（存在），现有 PNG 3 张，因格式被排除 0 个
 - 成果：`/Volumes/LCA_SSD/课程/大数据综合实训/handwriting_recognition/outputs/custom/custom_results.json`（尚未生成）
+
 ## 7. 告警清单（按级别）
 
 | 级别 | 编号 | 维度 | 对象 | 问题 | 建议动作 |
